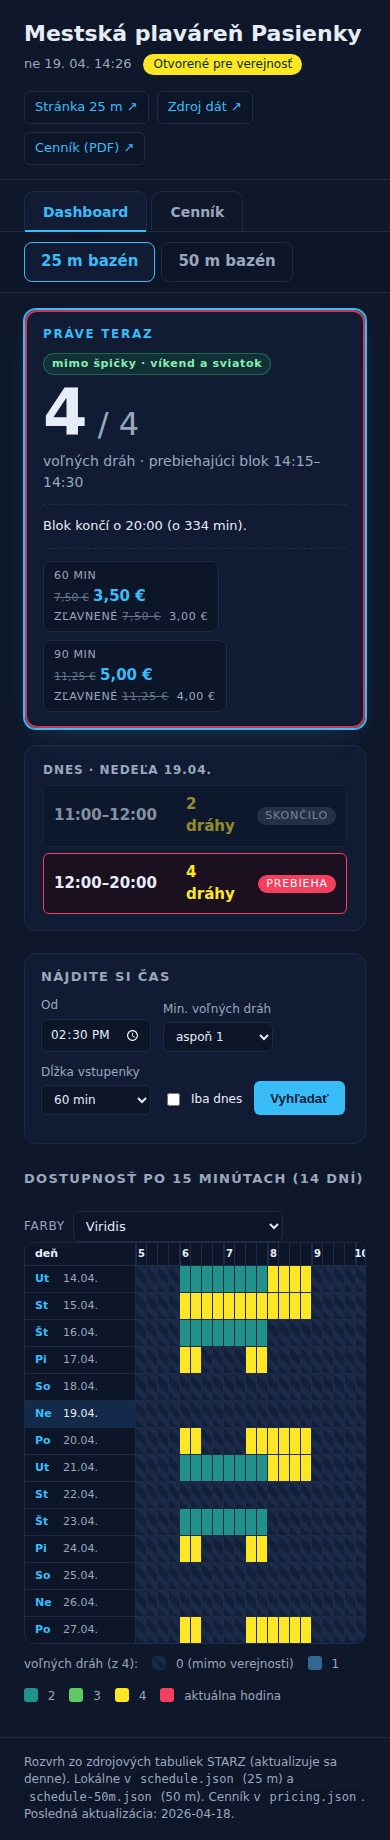
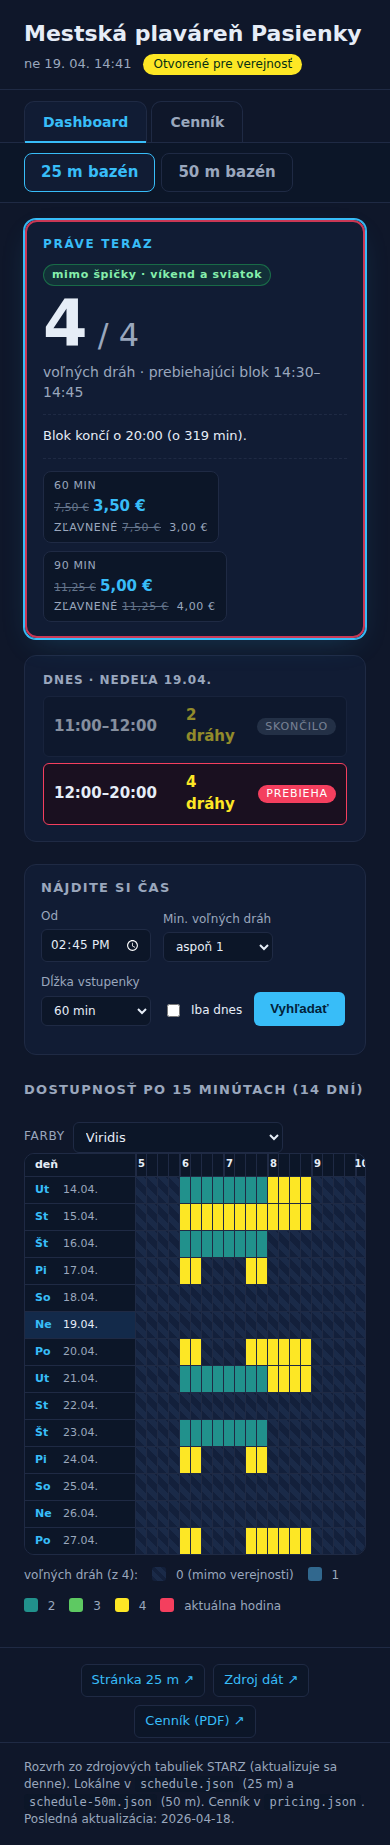
Move external links to bottom of page on mobile
Header link row stays on desktop; on viewports <=760px it's hidden and a
centered duplicate appears between main content and footer so the limited
header space is reserved for the title and status pill.

diff --git a/app.js b/app.js
@@ -230,19 +230,24 @@ function setupTabs() {
 }
 
 function setupLinks() {
-  document.getElementById("link-pool").href = POOL_PAGE[state.pool];
-  document.getElementById("link-pool").textContent =
-    state.pool === "25m" ? "Stránka 25 m ↗" : "Stránka 50 m ↗";
   const d = activeData();
-  document.getElementById("link-source").href = d?.source || POOL_PAGE[state.pool];
+  const poolText = state.pool === "25m" ? "Stránka 25 m ↗" : "Stránka 50 m ↗";
+  document.querySelectorAll(".link-pool").forEach(a => {
+    a.href = POOL_PAGE[state.pool];
+    a.textContent = poolText;
+  });
+  document.querySelectorAll(".link-source").forEach(a => {
+    a.href = d?.source || POOL_PAGE[state.pool];
+  });
   const priceUrl = state.pricing?.source;
-  const priceLink = document.getElementById("link-pricing");
-  if (priceUrl) {
-    priceLink.href = priceUrl;
-    priceLink.style.display = "";
-  } else {
-    priceLink.style.display = "none";
-  }
+  document.querySelectorAll(".link-pricing").forEach(a => {
+    if (priceUrl) {
+      a.href = priceUrl;
+      a.style.display = "";
+    } else {
+      a.style.display = "none";
+    }
+  });
 }
 
 function slotIndexForNow(data) {

diff --git a/index.html b/index.html
@@ -16,9 +16,9 @@
       </div>
     </div>
     <nav class="links" aria-label="Externé odkazy">
-      <a id="link-pool" href="#" target="_blank" rel="noopener">Stránka bazéna ↗</a>
-      <a id="link-source" href="#" target="_blank" rel="noopener">Zdroj dát ↗</a>
-      <a id="link-pricing" href="#" target="_blank" rel="noopener">Cenník (PDF) ↗</a>
+      <a class="link-pool" href="#" target="_blank" rel="noopener">Stránka bazéna ↗</a>
+      <a class="link-source" href="#" target="_blank" rel="noopener">Zdroj dát ↗</a>
+      <a class="link-pricing" href="#" target="_blank" rel="noopener">Cenník (PDF) ↗</a>
     </nav>
   </header>
 
@@ -102,6 +102,12 @@
       </div>
     </section>
   </main>
+
+  <nav class="links links-bottom" aria-label="Externé odkazy (mobilné)">
+    <a class="link-pool" href="#" target="_blank" rel="noopener">Stránka bazéna ↗</a>
+    <a class="link-source" href="#" target="_blank" rel="noopener">Zdroj dát ↗</a>
+    <a class="link-pricing" href="#" target="_blank" rel="noopener">Cenník (PDF) ↗</a>
+  </nav>
 
   <footer>
     Rozvrh zo zdrojových tabuliek STARZ (aktualizuje sa denne). Lokálne v

diff --git a/styles.css b/styles.css
@@ -67,6 +67,18 @@ header .meta { display: flex; gap: 12px; align-items: center; font-size: 13px; c
 }
 .links a:hover { border-color: var(--accent); }
 
+.links-bottom {
+  display: none;
+  justify-content: center;
+  gap: 8px;
+  padding: 16px 24px 4px;
+  border-top: 1px solid var(--line);
+}
+@media (max-width: 760px) {
+  header .links { display: none; }
+  .links-bottom { display: flex; }
+}
+
 .pill {
   display: inline-block;
   padding: 2px 10px;
